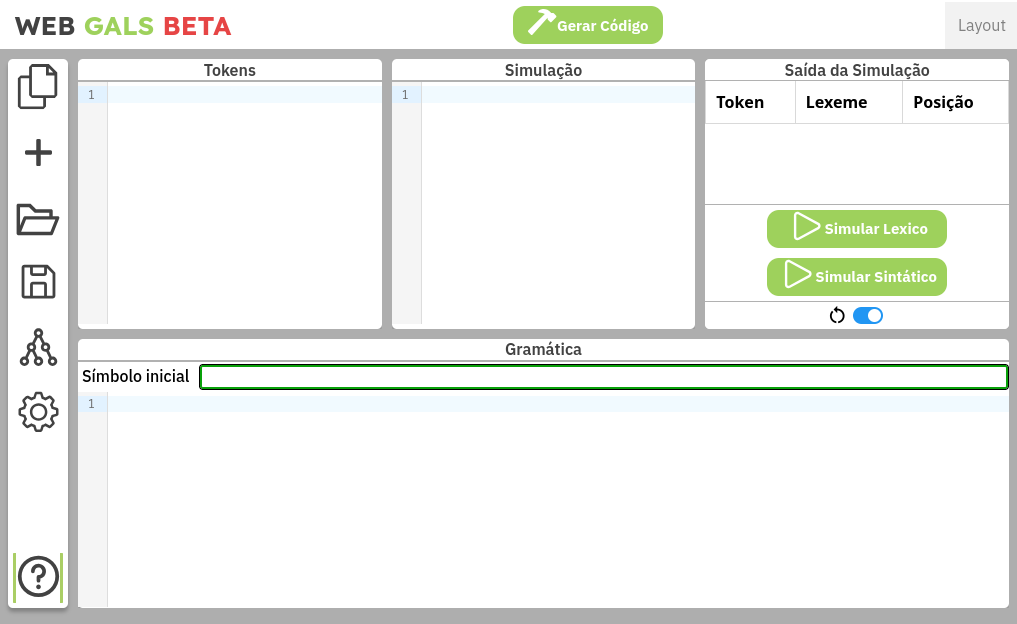
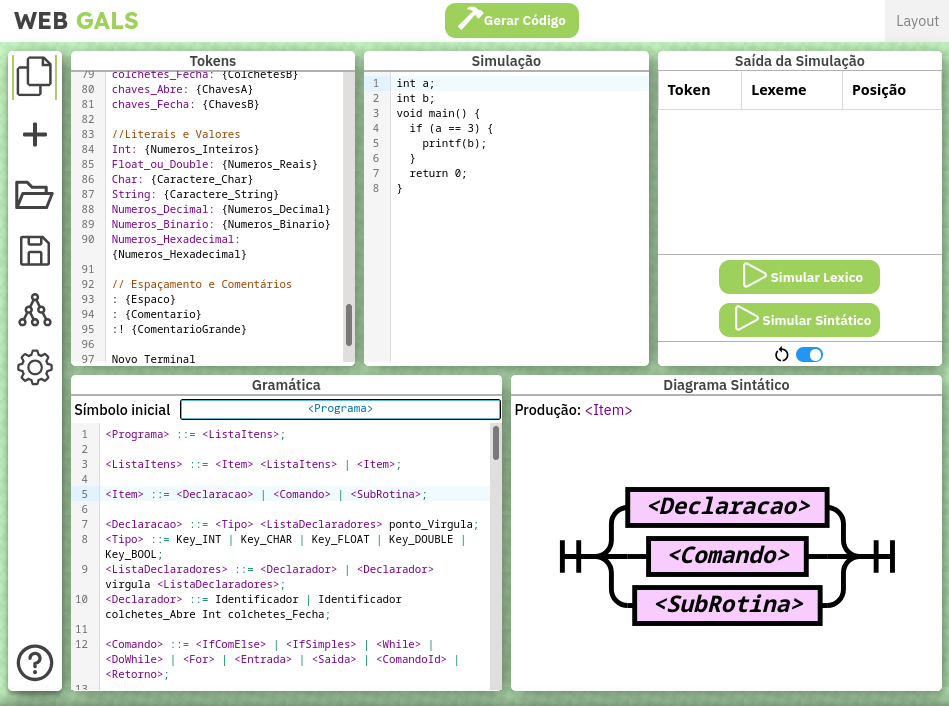
Atualiza documentação conforme novas funcionalidades

Changed region(s): [[0.0, 0.0, 1.0, 1.0], [0.5806, 0.6699, 0.9473, 0.9135], [0.4278, 0.2436, 0.4889, 0.274]]

diff --git a/src/components/RailroadJanela.vue b/src/components/RailroadJanela.vue
@@ -65,7 +65,7 @@ export default defineComponent({
       railroadwinSize
     }
   },
-  data(): { prodName: string, producaoFalha: boolean, cachedFA: FiniteAutomata | null } {
+  data(): { prodName: string, producaoFalha: boolean, cachedFA: FiniteAutomata | null, faDirty: boolean } {
     return {
       prodName: 'ε',
       producaoFalha: true,

diff --git a/webgals-docs/src/intro.md b/webgals-docs/src/intro.md
@@ -28,14 +28,15 @@ A interface principal do Web GALS possui:
 2. **Tokens:** Área de texto para a definição de Tokens a serem reconhecidos pelo Analisador Léxico (_scanner_).
 3. **Simulação:** Área de texto dedicada aos testes das definições de Tokens e Gramática.
 4. **Saída da Simulação:** Local de exibição da saída dos testes do analisador léxico (lista de Tokens) e do analísador sintático (árvore de derivação), dependendo da escolha do usuário.
-5. **Gerar código:** Botão para gerar o código-fonte dos analisadores e construção de compilador da linguagem projetada.
-6. **Menu Layout:** Este menu permite o usuário mudar o layout da área de trabalho do Web GALS.
-7. **Gerenciador de Projetos:** Opções que permitem o usuário trabalhar em múltiplos projetos (arquivos) ao mesmo tempo.
-8. **Tabelas e Documentação do projeto:** Menu com opções de visualização das tabelas dos analisadores de acordo com as definições do projeto selecionado.
-9. **Menu de Configurações:** abrir menu de configurações do projeto selecionado.
-10. **Informações do Web GALS:** Exibir as informações do Web GALS.
-11. **Espaço de Projetos**: Espaço para selecionar o projeto a ser trabalhado no WebGALS.
-12. **Definições Regulares**: Área de texto para escrita das definições regulares e posterior aproveitamento na definição de Tokens.
+5. **Diagrama Sintático:** Janela com a visualização da gramática em estilo _railroad_.
+6. **Gerar código:** Botão para gerar o código-fonte dos analisadores e construção de compilador da linguagem projetada.
+7. **Menu Layout:** Este menu permite o usuário mudar o layout da área de trabalho do Web GALS.
+8. **Gerenciador de Projetos:** Opções que permitem o usuário trabalhar em múltiplos projetos (arquivos) ao mesmo tempo.
+9. **Tabelas e Documentação do projeto:** Menu com opções de visualização das tabelas dos analisadores de acordo com as definições do projeto selecionado.
+10. **Menu de Configurações:** Abrir menu de configurações do projeto selecionado.
+11. **Informações do Web GALS:** Exibir as informações do Web GALS.
+12. **Espaço de Projetos**: Espaço para selecionar o projeto a ser trabalhado no WebGALS.
+13. **Definições Regulares**: Área de texto para escrita das definições regulares e posterior aproveitamento na definição de Tokens.
 
 Após finalizar um projeto no Web GALS, é possível gerar um código *template* que implementa os analisadores léxico e sintático que processam o autômato de reconhecimento da linguagem projetada; Isso serve como ponto de partida para o desenvolvimento do analisador semântico e implementação de um compilador via programação nas linguagens-alvo disponíveis no Web GALS.
 
